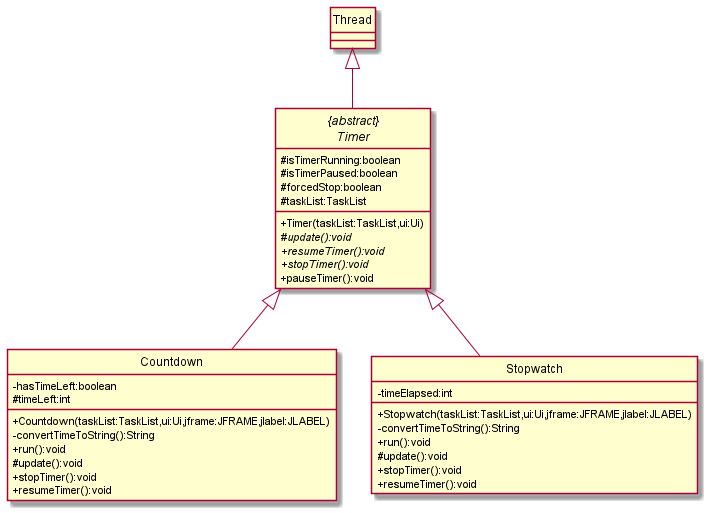
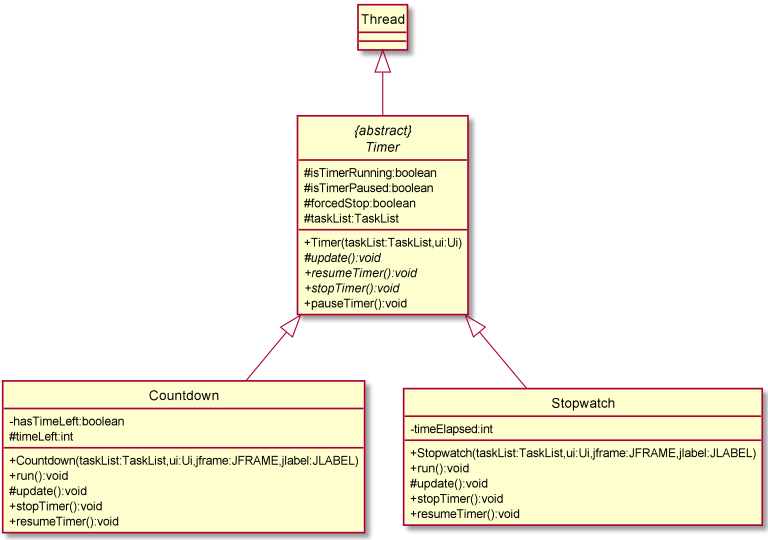
Update developer guide
Update screenshots for UML diagrams in timer
Update table of contents

Changed region(s): [[0.0, 0.0, 1.0, 0.9981]]

diff --git a/docs/DeveloperGuide.md b/docs/DeveloperGuide.md
@@ -5,9 +5,18 @@
 - [Introduction](#introduction)
 - [Architecture](#architecture)
 - [Design & Implementation](#design--implementation)
-  - [Study Session Implementation](#study-session-implementation)
+  - [Task Implementation](#task-implementation)
+    - [Editing Tasks](#editing-tasks)
+  - [Study Session Implementation](#study-session-implementation) 
+    - [Timer Implementation](#timer-implementation)
+    - [Study session usage scenario](#study-session-usage-scenario)
+    - [Design considerations for Timer](#design-considerations-for-timer-class)
   - [Timetable Implementation](#timetable-implementation)
+    - [Timetable usage scenario](#timetable-usage-scenario)
+    - [Design considerations for generating timetable](#design-considerations-for-generating-the-timetable)
   - [Storage Implementation](#storage-implementation)
+    - [Loading saved files](#loading-saved-files)
+    - [Design considerations for format of save file](#design-considerations-for-the-format-of-the-save-file)
 - [Product Scope](#product-scope)
   - [Target user profile](#target-user-profile)
   - [Value proposition](#value-proposition)
@@ -90,7 +99,8 @@ operate on.
 
 ![classdiagram](images/TaskClass.png)
 
-#### Editing tasks
+#### Editing Tasks
+
 The edit command is handled by the `EditCommand` class, and it allows users to edit 1 or more occurrences of a task.
 
 If the edit command contains the `/repeat` option, the specified task
@@ -165,7 +175,7 @@ The `TimerLogic` component
 
 The `Timer` component
 
-![TimerClassDiagram](images/TimerClassDiagram.png)
+![](images/TimerClassDiagram.png)
 
 - Consists of abstract `Timer` class, `Countdown` class and `Stopwatch` class as depicted in the class diagram above
 - `Timer` inherits from Java's `Thread` class
@@ -174,7 +184,7 @@ The `Timer` component
 - `Countdown` and `Stopwatch` can be paused, resumed and stopped
 - `Countdown` and `Stopwatch` prints to standard output the time remaining and elapsed respectively at regular intervals
 
-#### Timer implementation
+#### Timer Implementation
 
 Sherpass’ implementation of the timer function in the study session is mainly through `Timer`, `Countdown` and 
 `Stopwatch` class. Depending on the type of timer selected by the user, either `Countdown` or `Stopwatch` will be
@@ -200,12 +210,11 @@ user is in the study session. `TimerParser` parses user inputs (commands) relate
 
 Sequence diagram for `StudyCommand` for receiving input from `Ui`:
 
-![TimerInputSD](https://user-images.githubusercontent.com/69501969/162566570-9b9219dd-858e-409b-b655-0b06d71e5e7d.png)
+![](images/TimerInputSD.png)
 
 Sequence diagram for `Timer` when user starts and stops a timer:
 
-![TimerClassSD](https://user-images.githubusercontent.com/69501969/162565061-146f1c9d-3e69-4c75-8d49-2eb5e5ccab17.png)
-
+![](images/TimerClassSD.png)
 
 The diagram above depicts the process when user calls start and stop (in step 2 and 3 below). All the methods
 called by Timer are in parallel with other commands, since `Timer` is in a separate thread. For simplicity’s
@@ -237,7 +246,7 @@ track of time
   provided by Java has no way of pausing the timer, only stopping it.
 
 
-### Timetable implementation 
+### Timetable Implementation 
 
 The **TimeTable** component prints the daily, weekly and monthly schedule that the user wishes to see. 
 
@@ -316,7 +325,7 @@ the input over to Parser to break down the input into a suitable data for comman
 
 
 
-### Timetable usage scenario
+#### Timetable usage scenario
 
 Below is the overall sequence, represented by three sequence diagrams, showing what happens 
 as the user enters a command to see the schedule (timetable) for 25th May 2022:
